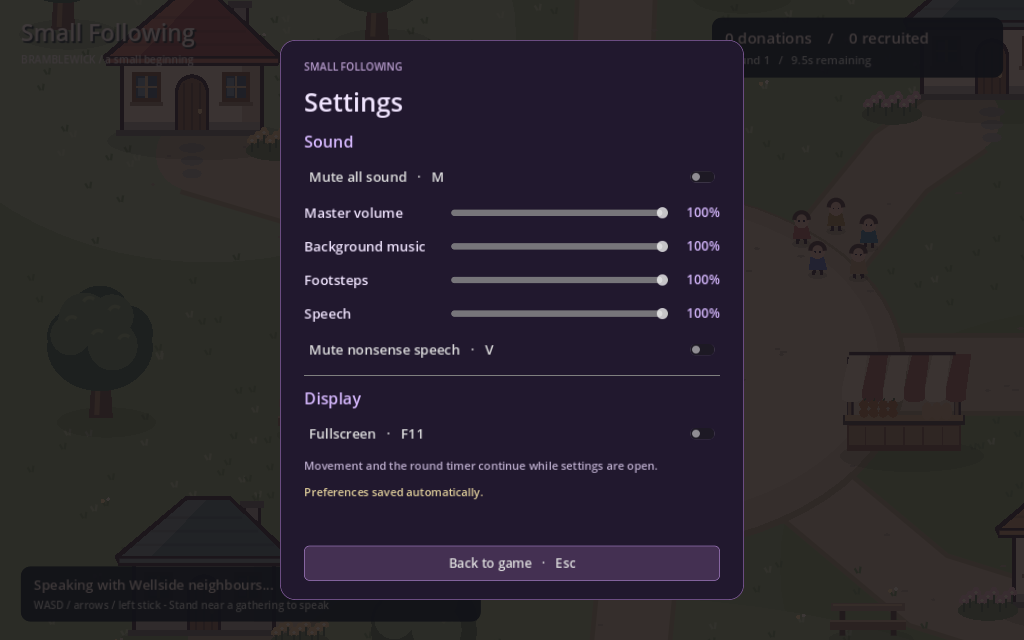
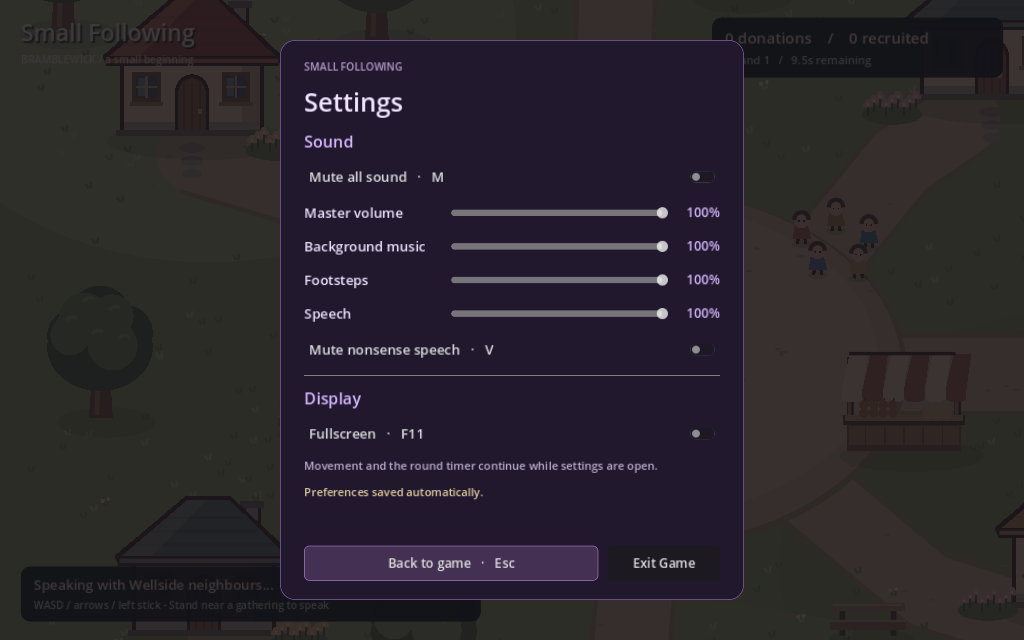
Let the cultist leave from settings (exit game)
Add a fixed-footer Exit Game action that flushes preferences and progression before desktop shutdown. Keep Esc as return and explain browser tab closure on the disabled web action.

Actual button-click exit checks pass headless and with a display using isolated saves. Regression suites and rendered captures pass; known editor import error remains.

Changed region(s): [[0.375, 0.8438, 0.7188, 0.9062]]

diff --git a/docs/SETTINGS.md b/docs/SETTINGS.md
@@ -14,7 +14,7 @@ included; browser fullscreen behavior needs separate exported verification.
 The player's decision is how loud the game should be and whether to use the
 whole display. The primary action is to adjust a control, then return to play.
 A centered violet panel contains Sound and Display sections, with a persistent
-Back to game button. Scrollable contents keep the back action reachable on
+Back to game button and the requested Exit Game button. Scrollable contents keep both actions reachable on
 shorter viewports. Percentage labels and switch positions show current values.
 Save status appears below the controls. The village or ritual remains visible
 behind a dimmed backdrop; no upgrade information is duplicated here.
@@ -28,6 +28,7 @@ header's unused right-hand space. It disappears while the page is open.
 | --- | --- |
 | Settings button / Esc | Opens over the current village or ritual |
 | Back to game / Esc | Closes and returns to the underlying current phase |
+| Exit Game | Attempts to flush preferences and progression, then closes the desktop game |
 | Tab between rounds | Closes settings and reveals the village |
 | Fullscreen switch / F11 | Toggles the actual game window mode |
 | M / V | Toggles all audio / speech; switches stay synchronized |
@@ -38,6 +39,13 @@ underneath settings. Enter/U cannot start a hidden round or purchase an upgrade
 while settings is open. The backdrop blocks clicks reaching the ritual graph.
 Settings controls do not capture movement arrows or leave keyboard focus on
 the underlying ritual. The timer behavior is explained on the page.
+
+Exit Game (requested 2026-10-03) shares the fixed footer with Back to game and
+has no keyboard shortcut, so Esc continues to mean return. Exiting preserves
+the existing fresh-round-on-relaunch policy. Save writes use the existing
+failure policies and are best effort; quitting does not bypass validation.
+In browser builds the exit button is disabled with a tooltip explaining that
+the browser tab must be closed instead; the game cannot close a user-owned tab.
 
 ## Sound and display rules
 

diff --git a/docs/VERIFICATION.md b/docs/VERIFICATION.md
@@ -565,3 +565,29 @@ Pacing remains unchanged: the practical original-core route converts all 15
 at 10.517 seconds, leaving 0.483 seconds. This is automated route evidence,
 not a human playtest. No browser/export fullscreen, storage, gamepad or
 subjective audio acceptance is claimed. No publishing or installation occurred.
+
+## 2026-10-03 - Exit Game in settings
+
+Added Exit Game beside Back to game in the fixed settings footer. It attempts
+settings/progression saves before `SceneTree.quit()`. Esc still returns to play.
+Web builds disable the action and explain closing the browser tab via tooltip;
+browser export behavior was not exercised.
+
+`tests/test_exit.gd` clicked the actual button through viewport mouse input,
+verified the latest volume and donation values in isolated fixture saves before
+the preference debounce elapsed, and observed normal process exit 0 both
+headless and on a rendering display. The test has a failure watchdog if shutdown
+does not occur. Final logs contain no errors or warnings; no normal saves were
+read or written.
+
+All regression suites passed at headless fixed 60 fps: settings 27, audio 27,
+smoke 92, progression 113, pacing 59, helper 34, encounters 206 and ritual
+readability 67 checks, all with 0 failures and exit 0; merchants also reports
+0 failures and exit 0. Headless editor import retains the existing exit-1
+`_EDITOR_GET` error and cursor/Blender-path warnings.
+
+Ran `tests/capture_starter.gd` on the rendering display (exit 0), and inspected
+the updated village, ritual and compact settings PNGs. Exit Game and Back to
+game remain fully visible at 1280 x 800 and the 1024 x 640 compact output.
+The capture still converts all 15 listeners at 10.517 seconds, leaving 0.483
+seconds. No export, publishing or tool installation occurred.

diff --git a/docs/GAME_DESIGN.md b/docs/GAME_DESIGN.md
@@ -128,6 +128,10 @@ mute switches and fullscreen. Esc opens/closes the page; F11 toggles fullscreen.
 Preferences persist separately from progression. Movement and the timer remain
 active, with this behavior explained on the page. [Scope and screen brief](SETTINGS.md).
 
+The settings footer also includes the requested Exit Game action (2026-10-03).
+Desktop exit flushes pending preference/progression writes before quitting;
+relaunch retains the existing fresh-round policy. Browser users close the tab.
+
 ## First-map finale
 
 See [FIRST_MAP](FIRST_MAP.md) for the scoped design and provisional encounter rules. Implemented: two optional merchants, four merchant inscriptions, three opponents and a priest boss who walk to the center, twelve further inscriptions, and saved first-map completion. The full catalog has 32 nodes and 35 ranks. Town Debate opens the ordered encounters after East Lane Invitations. One opponent is attempted per round; victory persists, while partial conviction resets. The Priest ends the first map's objective; later maps await new direction. Costs, names, resistances and numerical balance are provisional.

diff --git a/README.md b/README.md
@@ -31,6 +31,7 @@ From the project folder, `.\Run.ps1` also launches the game; pass `-GodotExe '<i
 | Mute / unmute nonsense speech | V |
 | Open / close settings | Settings button / Esc |
 | Toggle fullscreen | Settings switch / F11 |
+| Exit the desktop game | Settings → Exit Game |
 
 Movement remains active during the ritual; Tab reveals the village between rounds. A new round returns the cultist to the starting entrance. Gamepad movement/action mappings exist but were not physically tested; graph selection and navigation currently require a mouse.
 
